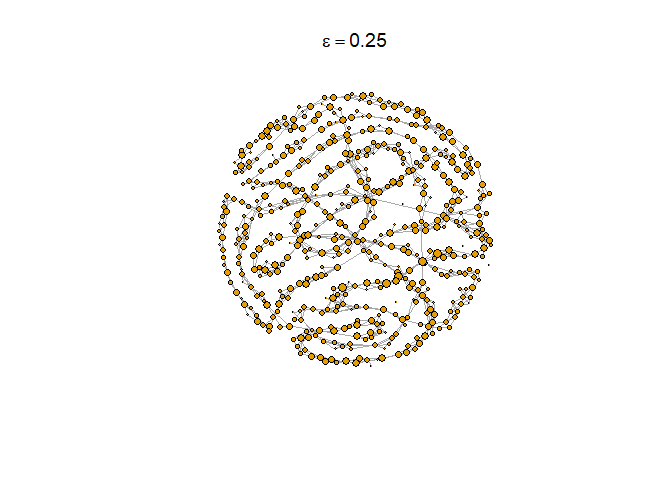
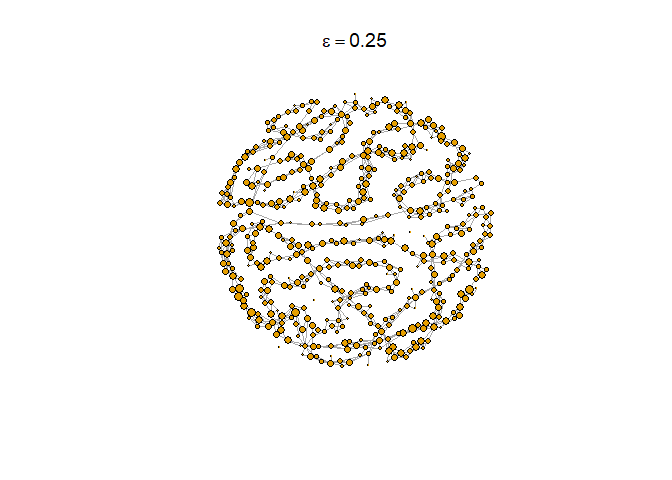
1d mapper now takes any cover of intervals

Changed region(s): [[0.3125, 0.1875, 0.75, 0.7812]]

diff --git a/README.md b/README.md
@@ -162,8 +162,8 @@ eccentriccover = create_width_balanced_cover(min(eccentricity),
 xcovercheck = apply(xcover, 1, check_in_interval)
 ycovercheck = apply(ycover, 1, check_in_interval)
 zcovercheck = apply(zcover, 1, check_in_interval)
-eccentriccovercheck = apply(eccentriccover, 1, check_in_interval)
 
+# build the mapper objects
 xmapper = create_mapper_object(
   data = P.data,
   dists = P.dist,
@@ -173,15 +173,9 @@ xmapper = create_mapper_object(
 )
 ymapper = create_mapper_object(P.data, P.dist, projy, ycovercheck, "single")
 zmapper = create_mapper_object(P.data, P.dist, projz, zcovercheck, "single")
-eccentricmapper = create_mapper_object(P.data, P.dist, eccentricity, eccentriccovercheck, "single")
 
 # mappeR also has a built-in 1D mapper function that will do the above for you
-eccentricmapper = create_1D_mapper_object(P.data,
-                                          P.dist,
-                                          eccentricity,
-                                          num_bins,
-                                          percent_overlap,
-                                          "single")
+eccentricmapper = create_1D_mapper_object(P.data, P.dist, eccentricity, eccentriccover, "single")
 ```
 
 The vertices in each output graph below are colored according to the
